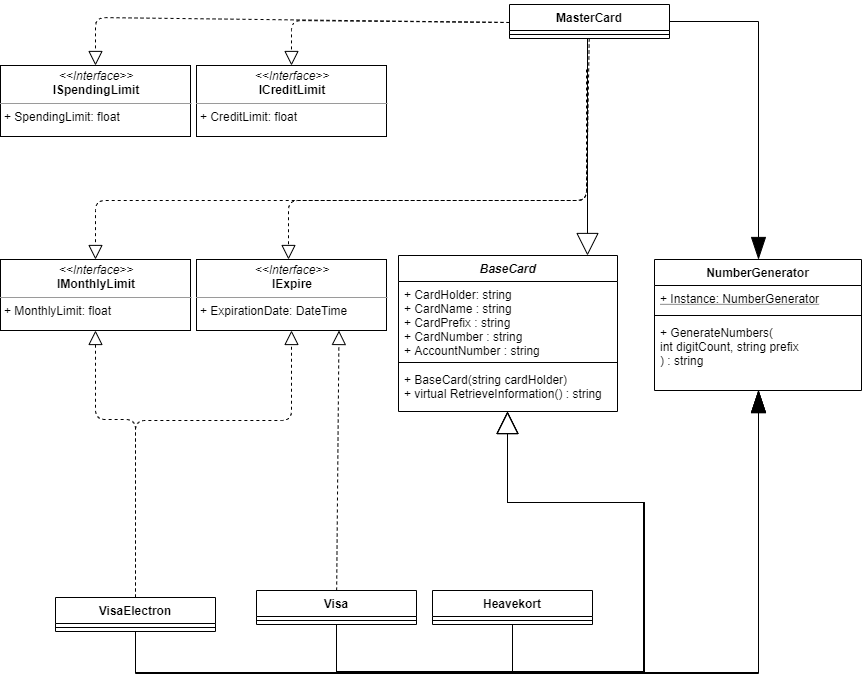
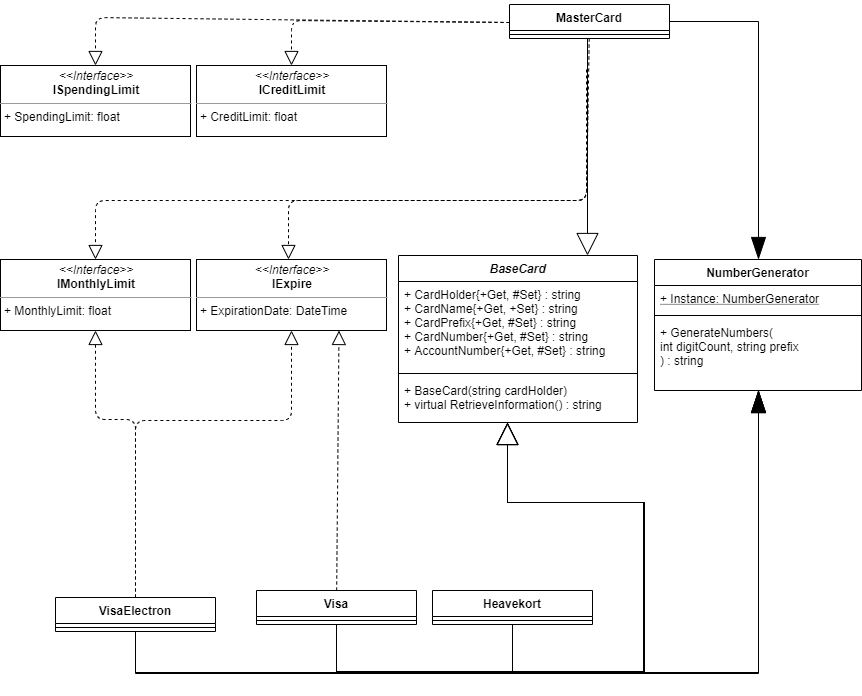
Added protected Set on Basecard Properties Updated UML

Changed region(s): [[0.4826, 0.3621, 0.7239, 0.6638]]

diff --git a/My_Banker/BaseCard.cs b/My_Banker/BaseCard.cs
@@ -12,14 +12,14 @@ namespace My_Banker
         public string CardHolder
         {
             get { return cardHolder; }
-            set { cardHolder = value; }
+            protected set { cardHolder = value; }
         }
         private string accountNumber;
 
         public string AccountNumber
         {
             get { return accountNumber; }
-            set { accountNumber = value; }
+            protected set { accountNumber = value; }
         }
 
 
@@ -35,7 +35,7 @@ namespace My_Banker
         public string CardPrefix
         {
             get { return cardprefix; }
-            set { cardprefix = value; }
+            protected set { cardprefix = value; }
         }
 
 
@@ -43,7 +43,7 @@ namespace My_Banker
         public string CardNumber
         {
             get { return cardnumber; }
-            set { cardnumber = value; }
+            protected set { cardnumber = value; }
         }
 
         public BaseCard()
